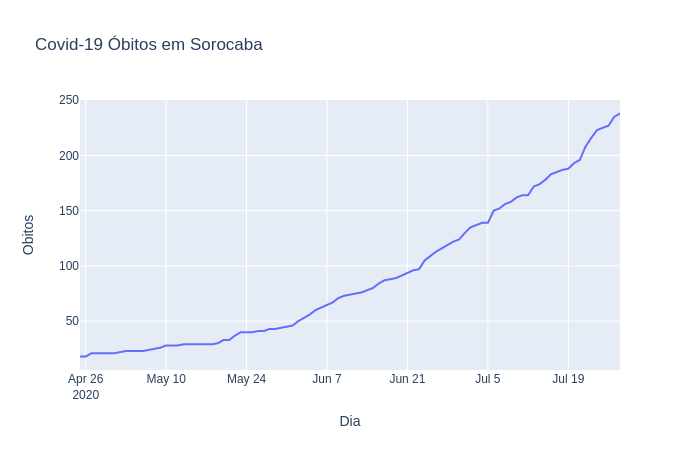
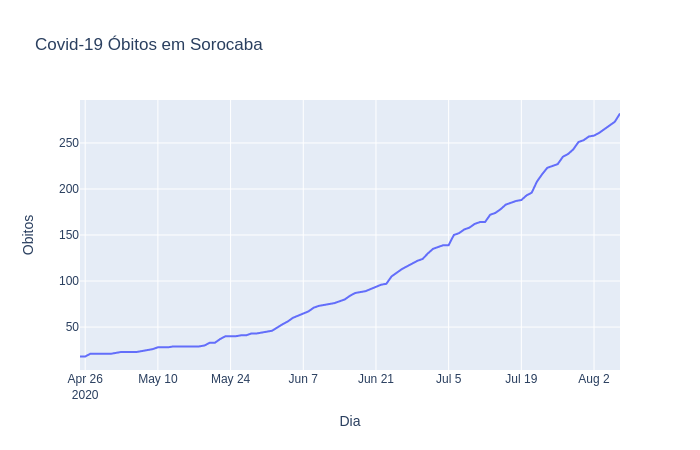
dados atualizados 07/08

diff --git a/codigo/plotgraph.py b/codigo/plotgraph.py
@@ -4,7 +4,7 @@ import plotly.express as px
 dataf = pd.read_csv('../dados/planilha_csv/dados.csv')
 
 fig = px.line(dataf, x = 'Dia', y = 'Confirmados', title='Covid-19 Casos Confirmados')
-fig.show()
+#fig.show()
 
 fig = px.line(dataf, x = 'Dia', y = 'Obitos', title='Covid-19 Óbitos em Sorocaba')
-fig.show()
+#fig.show()

diff --git a/README.md b/README.md
@@ -1,8 +1,8 @@
 ## Dados divulgados pela Prefeitura de Sorocaba sobre os casos de Covid-19
 Há uma planilha com os dados retirados das imagens divulgadas [AQUI](https://github.com/lucas-koiti/covid19-sorocaba/blob/master/dados/planilha_csv/dados.csv).
 
-## Gráfico de casos confirmados até 28/07/2020
+## Gráfico de casos confirmados até 07/08/2020
 <img src= "confirmados.png">
 
-## Gráfico de óbitos por covid-19 até 28/07/2020
+## Gráfico de óbitos por covid-19 até 07/08/2020
 <img src= "obitos.png">
